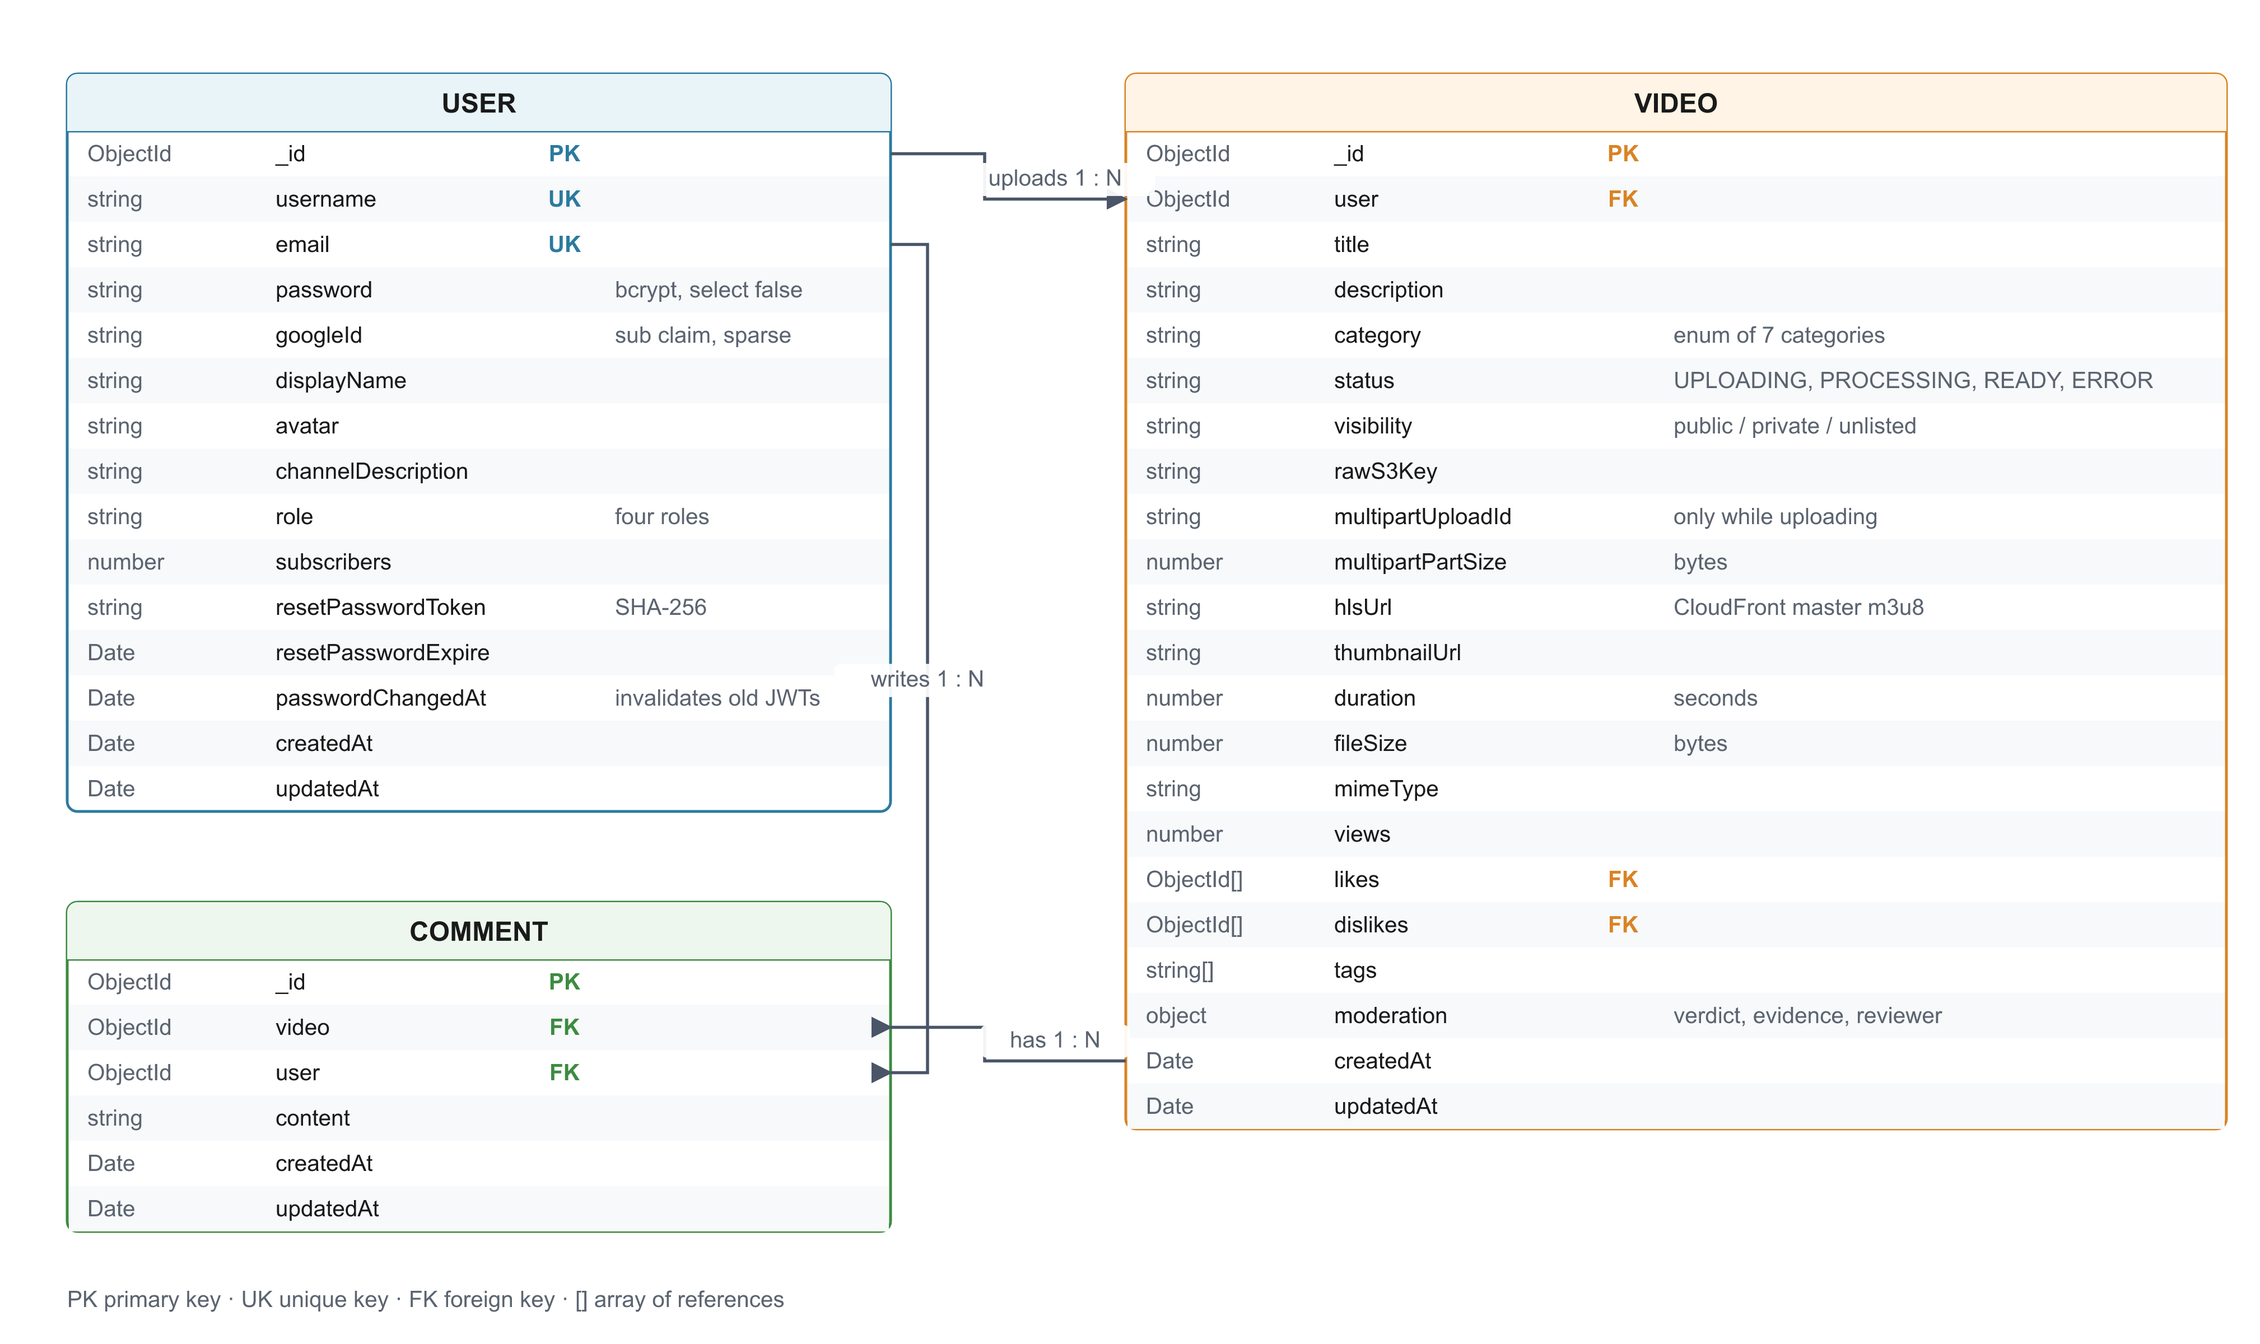
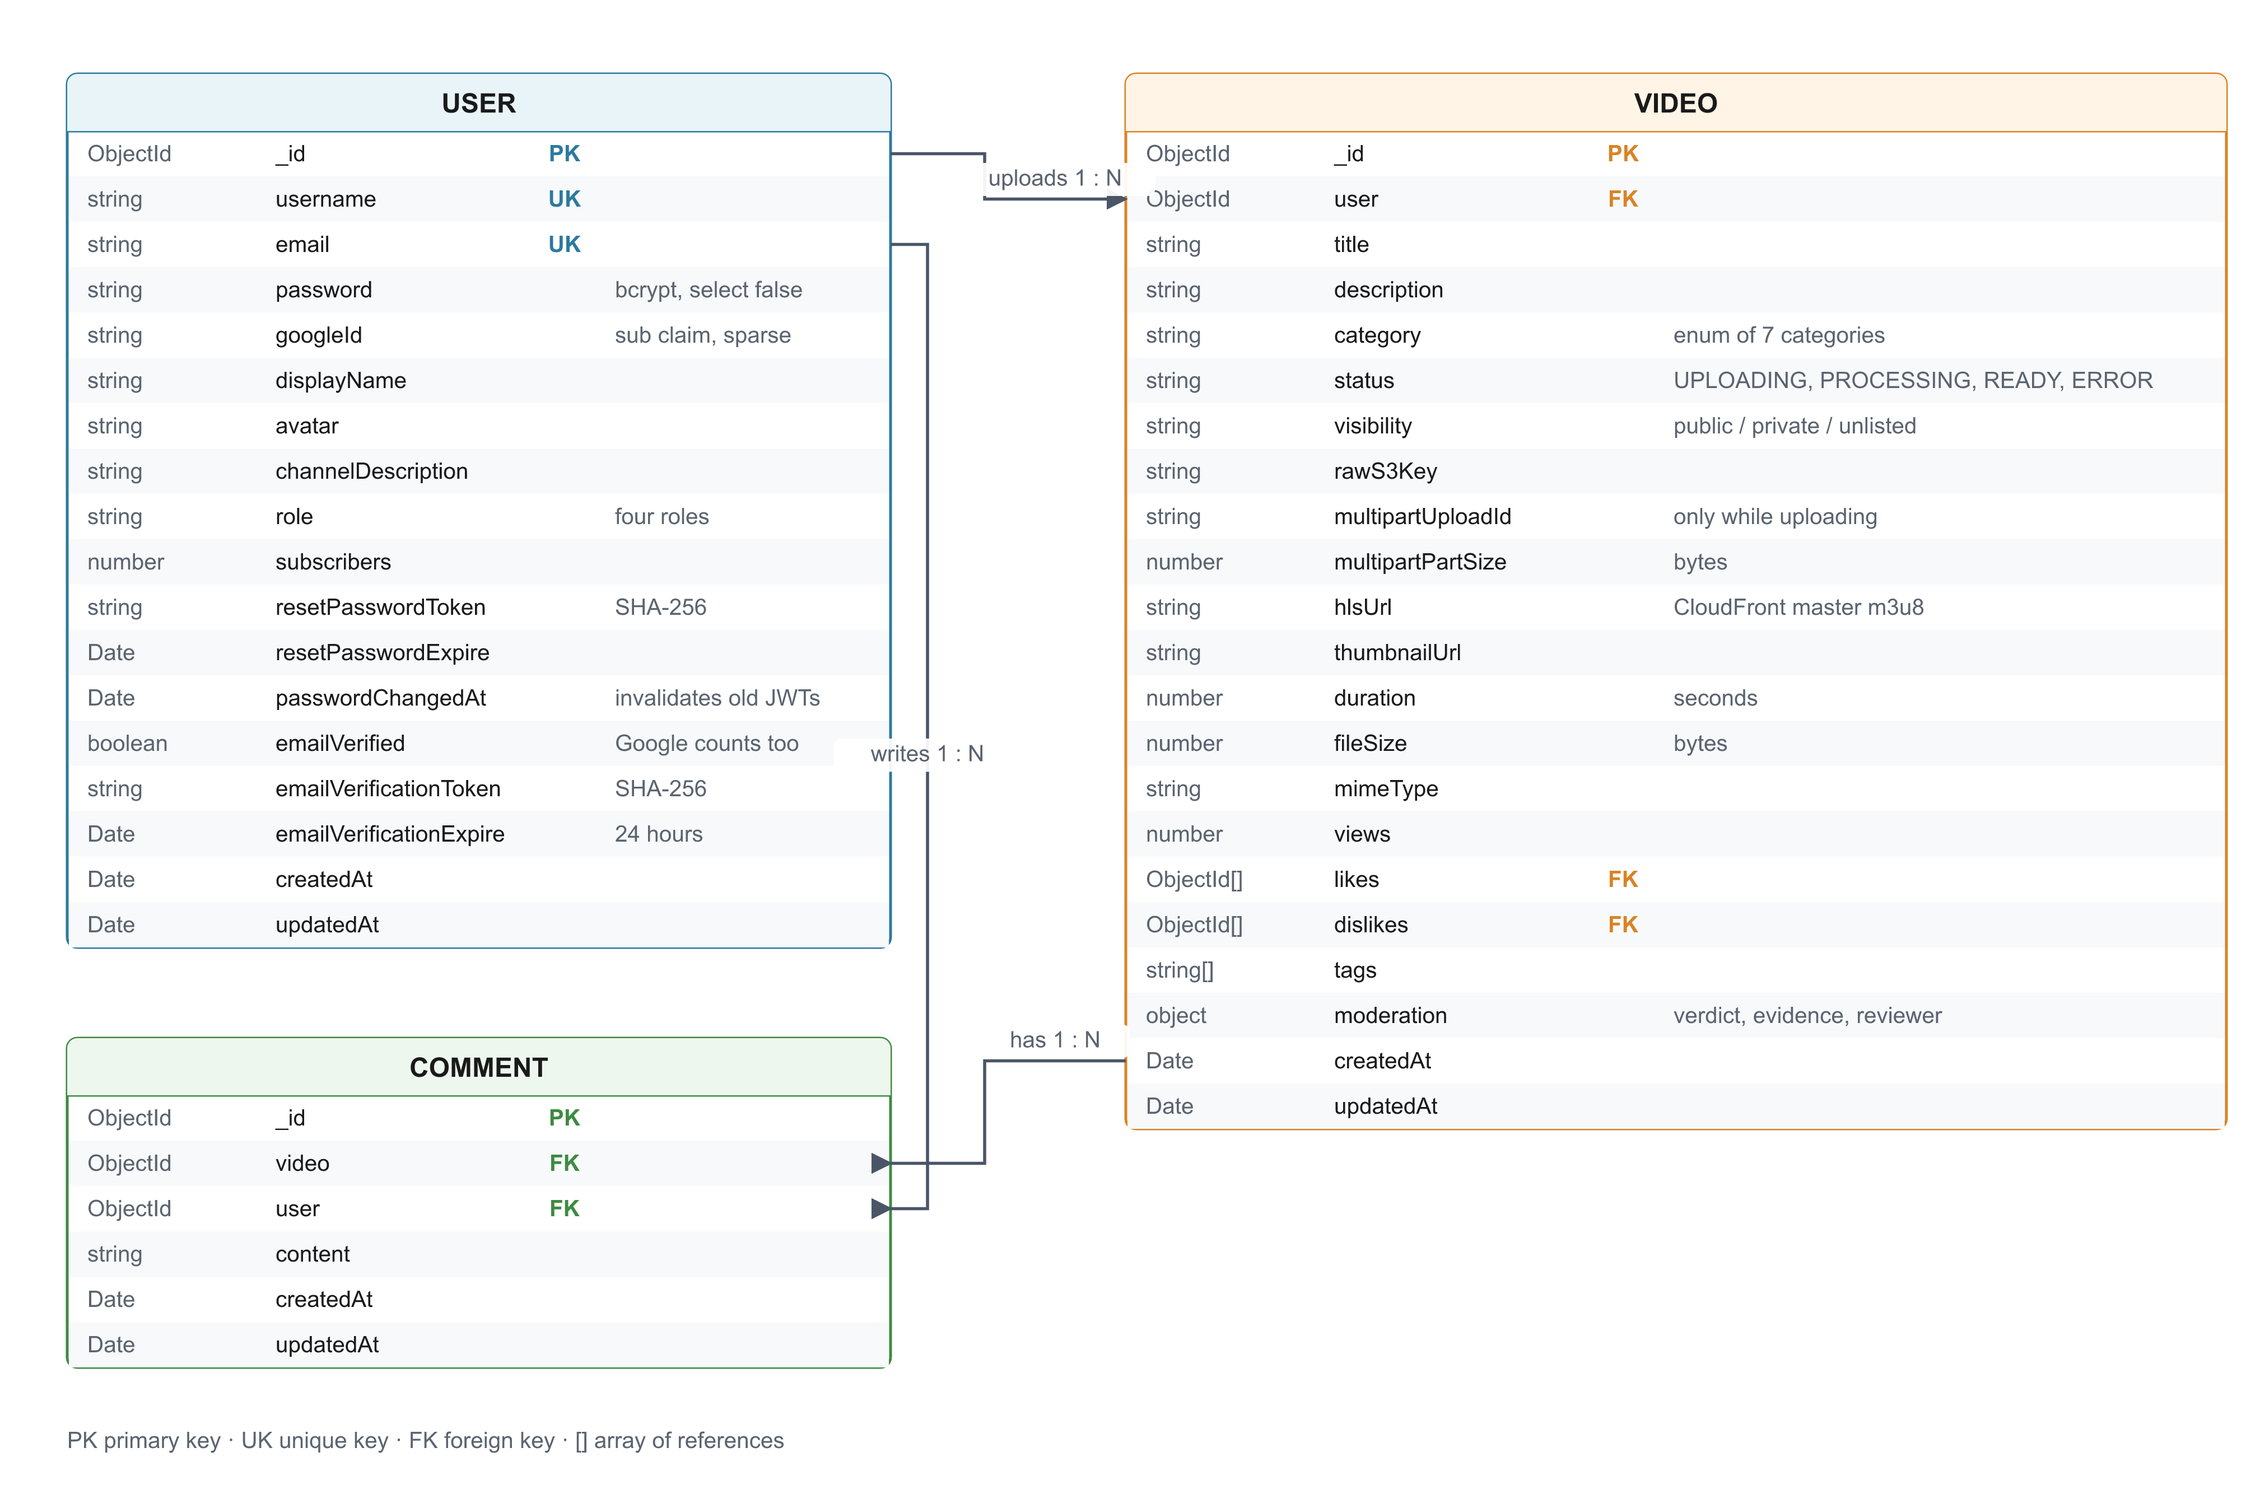
docs(report): email verification, 791 tests in 50 suites
PR #35 put email verification on production but the report still described
registration without it and counted 767 tests in 46 suites (backend is now
430 in 33). Adds section 4.5.6 (token design, POST from the frontend page,
Google takeover of an unverified account), FR-01, FR-02 and UC-07 wording,
the verification paragraph in the backend implementation, the four new
suites in the test table, a limitation on the thin account controls and a
future-work item for the hardening that follows. The core ERD gains the
three verification fields of User.

diff --git a/report/chapters/chap5.tex b/report/chapters/chap5.tex
@@ -42,6 +42,14 @@ files use an S3 multipart upload in parts of 32~MiB: the backend signs one URL p
 that part's length, so the storage service itself refuses a part of any other size, and on
 completion it lists the parts that S3 holds before asking for the object to be assembled.
 
+Verification is a property of the account on which three places must agree: the guard of the upload
+route, the profile that the interface reads, and the takeover of an account by a Google sign-in. All
+three read it through one method of the user model, which treats an account with a Google identity as
+verified, and not through the stored field. The guard stands on the creation of the upload record,
+ahead of the upload rate limiter, so that a refused request does not use up the hourly quota; the
+later steps of a multipart upload need no guard of their own, because they act only on a record that
+the guarded step created.
+
 Several protective measures were added at the HTTP layer. Security headers are applied through
 Helmet. Cross-origin requests are restricted to an explicit allow-list rather than being
 accepted from any origin, which is also a prerequisite for signed cookies to work, because the
@@ -373,22 +381,22 @@ the address stable across any rebuild that does occur.
 \section{Testing}
 \label{sec:testing}
 
-The automated test suite comprises 767 tests across 46 suites, 406 in 29 suites for the backend
+The automated test suite comprises 791 tests across 50 suites, 430 in 33 suites for the backend
 and 361 in 17 for the transcoder, and Tables~\ref{tab:test-coverage-backend} and
 \ref{tab:test-coverage-transcoder} group them by area.
 
 \begin{table}[H]
 \centering
-\caption{Automated backend tests by area, 406 tests in 29 suites}
+\caption{Automated backend tests by area, 430 tests in 33 suites}
 \label{tab:test-coverage-backend}
 \small
 \begin{tabularx}{\textwidth}{p{0.27\textwidth} p{0.09\textwidth} X}
 \toprule
 \textbf{AREA} & \textbf{TESTS} & \textbf{FOCUS} \\
 \midrule
-Authentication & 41 & Registration conflicts, login failures and token claims; missing, malformed, forged and expired tokens, and tokens issued before the account's last password change; the password policy; and a reset response that is identical whether or not the address has an account, including when e-mail delivery fails \\
+Authentication and account verification & 60 & Registration conflicts, login failures and token claims; the issue, expiry and single use of the verification link, which is stored only as a hash; the Google sign-in that takes over an unverified account; missing, malformed, forged and expired tokens, and tokens issued before the account's last password change; the password policy; and a reset response that is identical whether or not the address has an account, including when e-mail delivery fails \\
 Visibility and authorisation & 34 & Privacy enforcement across every query path; that the recommendation endpoint reuses the rule of the detail endpoint and never surfaces a private or unlisted video; and that a video exposes how many likes and dislikes it has but not who gave them \\
-Upload & 93 & Metadata and ownership checks, the deletion cascade, pre-signed URL creation, file type and size validation, the ceiling and its hard limit, the choice between a single and a multipart upload, part URLs signed for exact sizes, completion by listing the stored parts, and the clean-up of abandoned uploads \\
+Upload & 98 & Metadata and ownership checks, the refusal of an unverified account, the deletion cascade, pre-signed URL creation, file type and size validation, the ceiling and its hard limit, the choice between a single and a multipart upload, part URLs signed for exact sizes, completion by listing the stored parts, and the clean-up of abandoned uploads \\
 Content delivery & 30 & Cookie signing, policy scope and cookie attributes, and that revocation repeats the attributes used when issuing \\
 Listing, reactions and views & 31 & Pagination bounds, a stable sort order for channel pages, likes and dislikes as conditional updates, view deduplication, and the order of routes \\
 Operation and reconciliation & 32 & Reconciliation of videos stuck in processing or abandoned in uploading, the client address behind Cloudflare and nginx, rate-limit keys, e-mail configuration, and the health endpoint \\

diff --git a/report/chapters/chap7.tex b/report/chapters/chap7.tex
@@ -22,6 +22,8 @@ rate and, from a random audit sample, the false negative rate can be estimated w
 intervals, and the owner of a removed video can appeal (Section~\ref{sec:moderation-design}).
 The implementation is covered by 145 of the backend's tests, but the rates themselves have not
 been measured on real traffic, so this report makes no claim about how accurate the screening is.
+Uploading also requires a verified e-mail address, so that the public content of the platform is tied
+to a mailbox that someone can read (Section~\ref{sec:verification-design}).
 
 The transcoding pipeline operates without manual intervention. An upload emits an S3 event that
 is buffered in Amazon SQS and dispatched by an AWS Lambda function to AWS Batch, where a
@@ -50,7 +52,7 @@ environment definitions, and seven GitHub Actions workflows automate linting, un
 analysis, container scanning, infrastructure validation, and deployment. The security gate
 blocks merges on fixable critical findings rather than merely reporting them.
 
-The automated test suite grew to 767 tests across 46 suites, 406 for the backend and 361 for
+The automated test suite grew to 791 tests across 50 suites, 430 for the backend and 361 for
 the transcoder. Its practical value was demonstrated
 when it caught a defect in the cookie signing implementation that would have prevented every
 private video from playing once deployed. A second defect in that same subsystem, which only
@@ -95,7 +97,7 @@ and led to two corrections of the CloudFront price class that reduced the median
 Vietnam by a factor of 6.6 and the median seen from Brazil by a factor of 32. Transcoding
 throughput was measured under one hundred concurrent uploads of real video and cross-validated
 with two independently implemented load generators. And the automated suite, which has since
-grown to 767 tests in 46 suites, caught a signing defect that would otherwise have prevented every private video from
+grown to 791 tests in 50 suites, caught a signing defect that would otherwise have prevented every private video from
 playing.
 
 \section{Limitations}
@@ -128,7 +130,16 @@ less than that interval can pass it; this is why viewer reports, staff review an
 follow it. Its confidence thresholds, 60 and 90 per cent, were set from the provider's guidance
 and were not calibrated on this platform's own content, and, as stated in
 Section~\ref{sec:summary}, the error rates of the arrangement as a whole have not been measured
-on real traffic.
+on real traffic. Screening is also the largest line of the monthly bill under the stated workload,
+22.50~USD at sixty images per five-minute video, so a longer sampling interval would trade coverage
+for money.
+
+The controls on accounts are thin. A password needs eight characters and is not compared with lists
+of leaked passwords, which current guidance for password verifiers asks for. Registration sends a
+verification e-mail to whatever address it is given and is limited only per client address, so it can
+be used to send unwanted mail from the project's mailbox. And every account created before
+verification was introduced counts as unverified, except those that sign in with Google, until its
+owner follows a link.
 
 Signed Cookies remain valid for two hours after issuance, so switching a video from public to
 private leaves viewers holding unexpired cookies with access until those cookies lapse. Immediate
@@ -213,6 +224,11 @@ Section~\ref{sec:chunked-evaluation} suggest that the best choice depends on bot
 the video and the quota available. A related extension is to compare a faster x264 preset with the
 current one using VMAF on difficult clips, since a faster preset could shorten every chunk if the
 quality loss is acceptable.
+
+Account hardening would start with a check of new passwords against a list of leaked ones, a throttle
+on verification mail for each recipient address and not only for each client, and a second backend
+instance behind a health-checked address, which would remove the one single point of failure of the
+system.
 
 The moderation console already collects what is needed to tune the screening: the reason codes
 show which labels cause reversed removals, and the audit sample gives an unbiased estimate of

diff --git a/report/chapters/chap3.tex b/report/chapters/chap3.tex
@@ -34,8 +34,8 @@ the design and implementation chapters.
 \toprule
 \textbf{ID} & \textbf{REQUIREMENT} & \textbf{DESCRIPTION} \\
 \midrule
-FR-01 & Registration and login & Users register with a username, email address, and password. Authentication uses JSON Web Tokens carried in the Authorization header. \\
-FR-02 & Password recovery & Users request a reset link by email; the token is single-use and expires after fifteen minutes. \\
+FR-01 & Registration and login & Users register with a username, email address, and password. Authentication uses JSON Web Tokens carried in the Authorization header. A new account must prove that it can receive mail at its address before it may upload videos; signing in with Google counts as that proof. \\
+FR-02 & Password recovery & Users request a reset link by email; the token is single-use and expires after fifteen minutes. A completed reset also confirms the address. \\
 FR-03 & Direct upload to S3 & The client requests a pre-signed URL from the backend and transfers the file directly to Amazon S3 without routing the payload through the application server. A file above 512~MiB is transferred in parts of 32~MiB, so that a part that fails is retried without repeating the whole file. \\
 FR-04 & Automatic transcoding & Once the upload completes, the system transcodes the source into HLS renditions without any manual trigger. \\
 FR-05 & Adaptive playback & The player switches automatically among the renditions produced for the video, chosen from six rungs between 144p and 1080p according to the source resolution, as the available bandwidth changes. \\
@@ -151,7 +151,7 @@ detail.
 \midrule
 Identifier & UC-07 \\
 Actor & Authenticated user \\
-Precondition & The user holds a valid JSON Web Token. \\
+Precondition & The user holds a valid JSON Web Token and a verified e-mail address. \\
 Trigger & The user selects a video file and submits the upload form. \\
 Main flow &
   1. The client validates the file type and size locally. \newline
@@ -160,7 +160,7 @@ Main flow &
   4. The browser transfers the file directly to the raw S3 bucket. \newline
   5. The client confirms completion and the record moves to \texttt{PROCESSING}. \newline
   6. The transcoding pipeline runs asynchronously and eventually sets the record to \texttt{READY}. \\
-Alternative flow & If the file type is not an accepted video format or the size exceeds the limit, the server rejects the request before issuing a URL, and no orphan record is created. For a file larger than 512~MiB, step 3 returns a URL for each part of 32~MiB instead, and the server checks the stored parts before the object is assembled. \\
+Alternative flow & If the file type is not an accepted video format or the size exceeds the limit, the server rejects the request before issuing a URL, and no orphan record is created. For a file larger than 512~MiB, step 3 returns a URL for each part of 32~MiB instead, and the server checks the stored parts before the object is assembled. If the e-mail address is not verified, the server refuses the request with the code \texttt{EMAIL\_NOT\_VERIFIED} and the interface offers to send the link again. \\
 Postcondition & The video appears on the user's channel, initially as processing and subsequently as ready to play. \\
 \bottomrule
 \end{tabularx}

diff --git a/report/chapters/chap4.tex b/report/chapters/chap4.tex
@@ -476,6 +476,34 @@ one table. A role change is itself restricted: only an administrator may make it
 their own role, the last administrator cannot be demoted, and every change is appended to a log that
 the auditor can read.
 
+\subsection{Verifying the Owner of an Account}
+\label{sec:verification-design}
+
+Registration checks that an e-mail address is well formed and nothing more, so anyone can register
+with an address that belongs to someone else. Two harms follow. The registrant can upload, the most
+expensive operation of the system, under another person's address, which makes uploads anonymous in
+practice. And when the real owner of the address later signs in with Google, the account is already
+taken by someone who knows its password. The design therefore asks each new account to prove that it
+can receive mail at its address, and lets only verified accounts upload.
+
+After registration the backend generates a random token of 32 bytes, stores only its SHA-256 hash with
+an expiry of 24 hours, and e-mails a link that carries the token itself, as is done for the tokens of
+a password reset. The link opens a page of the single page application, and that page sends the token
+in a POST request, so that a mail client that previews links by fetching them cannot verify the
+account by itself. The server consumes the token in one conditional update, so two clicks on the same
+link cannot both succeed. An account that has not verified its address can still browse, like and
+comment, but the upload endpoint refuses it with a distinct error code, which the interface turns
+into a reminder with a button that sends the link again, limited to five mails per hour for each
+account.
+
+Three events count as proof of ownership: following the link; signing in with Google, whose identity
+token carries an address that Google has verified; and completing a password reset, since the reset
+link also goes only to the mailbox. A Google sign-in whose address matches an unverified local account
+takes that account over. The password is removed, every token issued earlier is invalidated through
+the password-change timestamp, and any pending verification or reset token is deleted, so that
+whoever registered first cannot keep access. An account that is already verified is never merged
+automatically: its owner must sign in with the password and link Google from the settings page.
+
 \section{Interface Design}
 \label{sec:interface-design}
 
